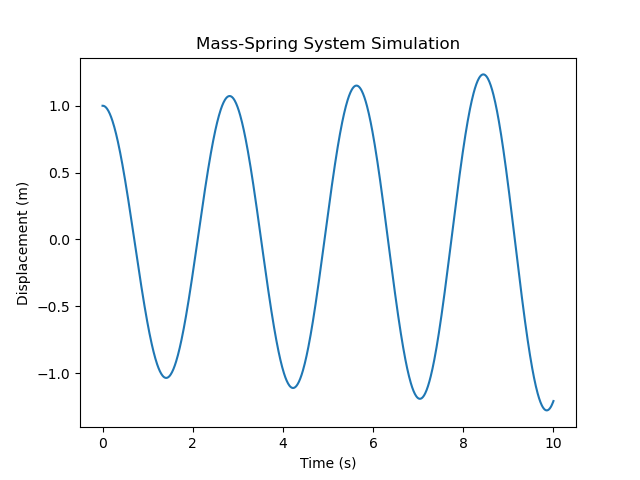
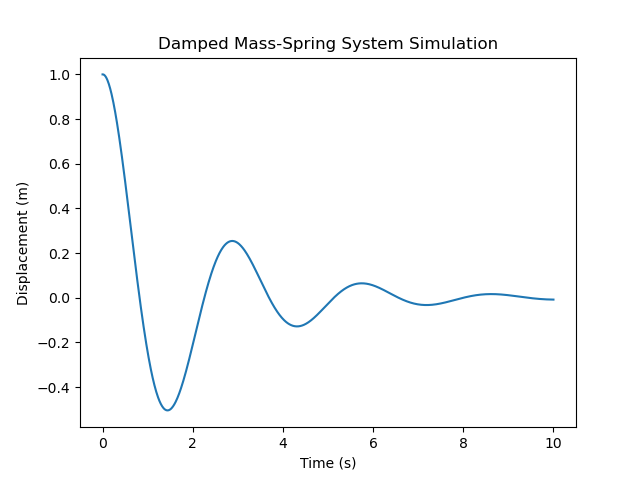
adding damping

diff --git a/mass-spring differential equation/mass-spring differential equation.py b/mass-spring differential equation/mass-spring differential equation.py
@@ -4,6 +4,7 @@ from matplotlib import pyplot as plt
 # Parameters
 m = 2       # mass (kg)
 k = 10      # spring constant (N/m)
+gamma = 1   # damping coefficient
 total_sim_time = 10
 dt = 0.01   # time step
 n_steps = int(total_sim_time/dt)
@@ -18,7 +19,8 @@ v[0] = 0.0   # initial velocity
 
 # Time loop (Euler method)
 for t in range(n_steps-1):
-    v[t+1] = v[t] + dt * (-k/m * x[t])
+    a = -(k/m) * x[t] - gamma * v[t]  # acceleration
+    v[t+1] = v[t] + dt * a
     x[t+1] = x[t] + dt * v[t]
 
 # Time vector for plotting
@@ -28,5 +30,5 @@ t_vector = np.linspace(0, total_sim_time, n_steps)
 plt.plot(t_vector, x)
 plt.xlabel("Time (s)")
 plt.ylabel("Displacement (m)")
-plt.title("Mass-Spring System Simulation")
+plt.title("Damped Mass-Spring System Simulation")
 plt.show()
